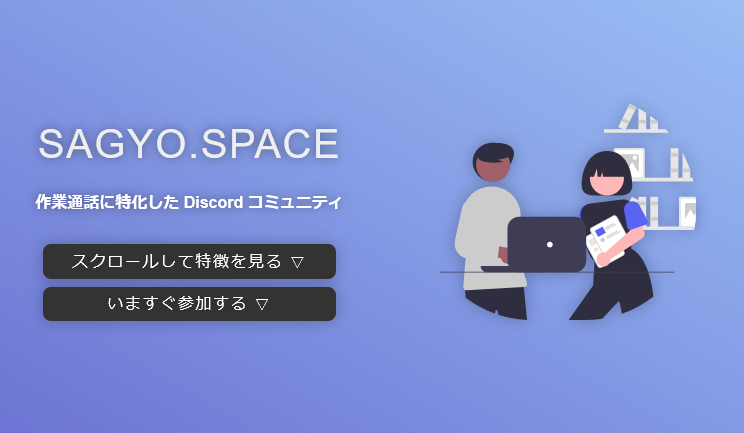
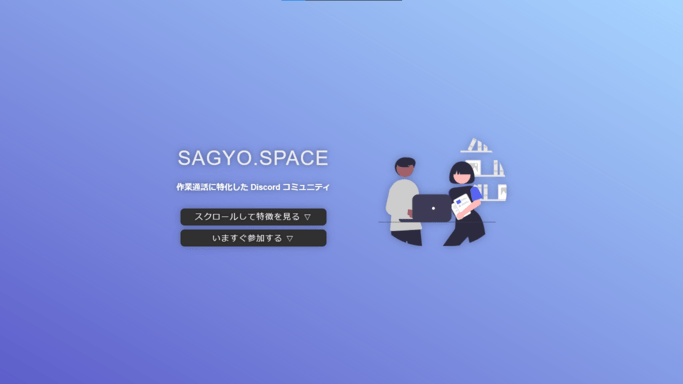
compress images

Changed region(s): [[0.5534, 0.2188, 0.9531, 0.75], [0.0307, 0.5312, 0.4919, 0.75], [0.0307, 0.2812, 0.4919, 0.5]]

diff --git a/style.css b/style.css
@@ -104,7 +104,7 @@
 .image {
   height: 100%;
   width: 100%;
-  background-size: auto 120%;
+  background-size: auto 80%;
 }
 
 #guide {
@@ -134,8 +134,5 @@
 @media screen and (min-width: 768px) {
   :root {
     --I: 400px;
-  }
-  .image {
-    background-size: auto 150%;
   }
 }
